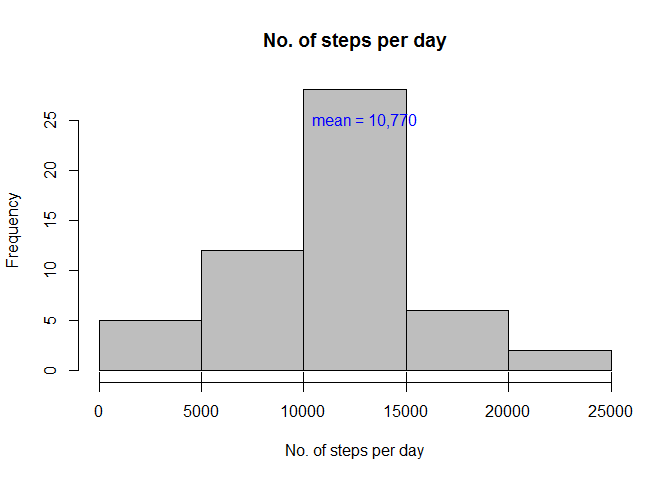
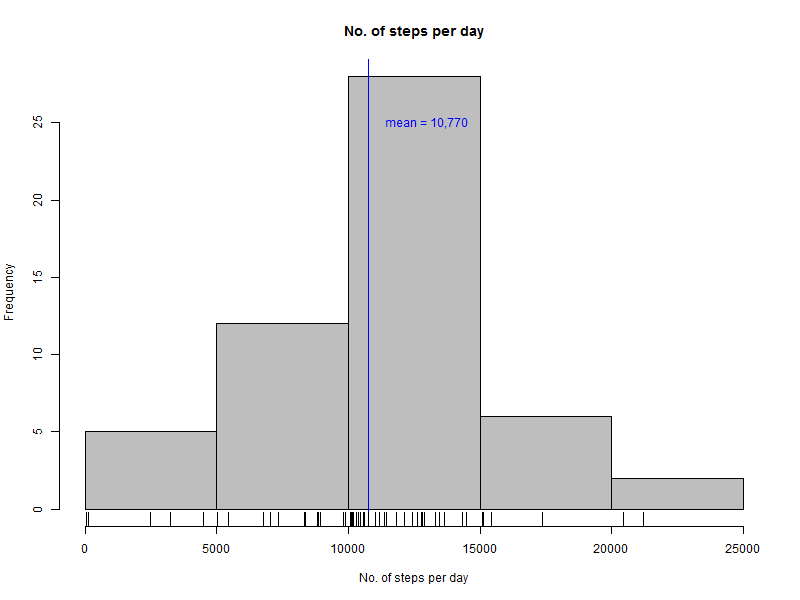
third submission

diff --git a/PA1_template.html b/PA1_template.html
@@ -109,11 +109,16 @@ head(aggregatedata)</code></pre>
 <pre><code>## [1] 10766.19</code></pre>
 <pre class="r"><code>median(aggregatedata$avgstepsday, na.rm = TRUE)</code></pre>
 <pre><code>## [1] 10765</code></pre>
-<pre class="r"><code>hist(aggregatedata$avgstepsday, col = &quot;grey&quot;, xlab = &quot;No. of steps per day&quot;, main = &quot;No. of steps per day&quot;)
+<pre class="r"><code>png('./figure-html/unnamed-chunk-3-1.png',width=800,height=600)
+
+hist(aggregatedata$avgstepsday, col = &quot;grey&quot;, xlab = &quot;No. of steps per day&quot;, main = &quot;No. of steps per day&quot;)
 abline(v = mean(aggregatedata$avgstepsday, na.rm = TRUE), col = &quot;blue&quot;)
 text(13000, 25, &quot;mean = 10,770&quot;, col = &quot;blue&quot;)
-rug(aggregatedata$avgstepsday)</code></pre>
[1 lines of base64/hex data omitted]
+rug(aggregatedata$avgstepsday)
+
+dev.off()</code></pre>
+<pre><code>## png 
+##   2</code></pre>
 </div>
 <div id="what-is-the-average-daily-activity-pattern" class="section level2">
 <h2>What is the average daily activity pattern?</h2>

diff --git a/PA1_template.md b/PA1_template.md
@@ -79,13 +79,20 @@ median(aggregatedata$avgstepsday, na.rm = TRUE)
 
 
 ```r
+png('./figure-html/unnamed-chunk-3-1.png',width=800,height=600)
+
 hist(aggregatedata$avgstepsday, col = "grey", xlab = "No. of steps per day", main = "No. of steps per day")
 abline(v = mean(aggregatedata$avgstepsday, na.rm = TRUE), col = "blue")
 text(13000, 25, "mean = 10,770", col = "blue")
 rug(aggregatedata$avgstepsday)
+
+dev.off()
 ```
 
-![](PA1_template_files/figure-html/unnamed-chunk-3-1.png)\
+```
+## png 
+##   2
+```
 
 
 
